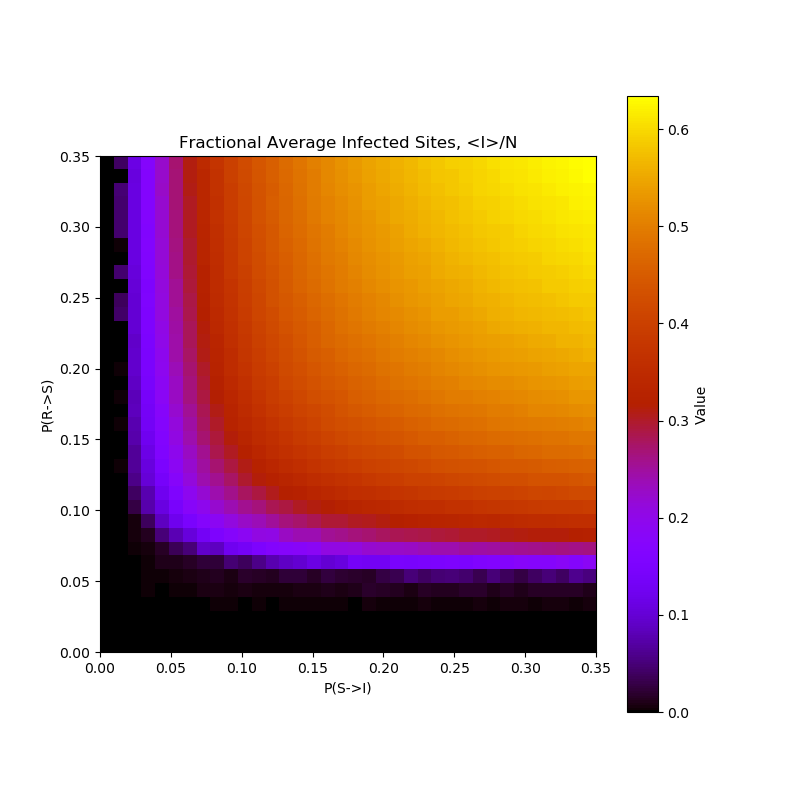
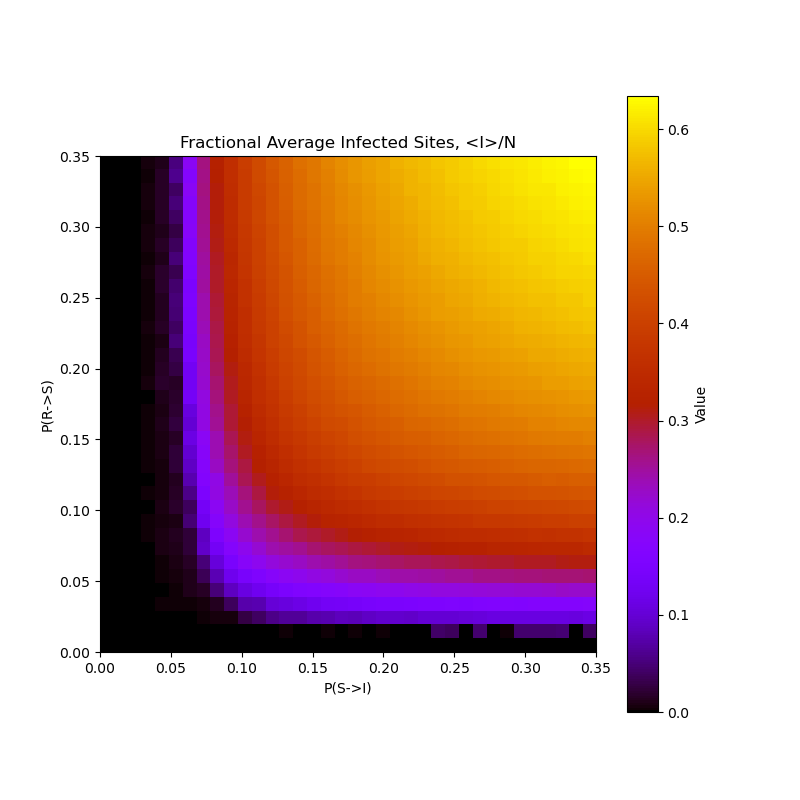
Further Gamma Distribution improvement

Changed region(s): [[0.125, 0.1562, 0.75, 0.8125], [0.0312, 0.4688, 0.0625, 0.5]]

diff --git a/Models/Trial_Models/SIRadvanced.py b/Models/Trial_Models/SIRadvanced.py
@@ -5,59 +5,86 @@
 import numpy as np
 import matplotlib.pyplot as plt
 from scipy.stats import gamma
-from scipy.integrate import simpson
 
 ########################################################################
 #################################MODEL##################################
 ########################################################################
 
 # Find the ppop that are moving from I to R at the current timestep using a gamma distribution
-def updateR(t,newI,max_prob_R,maxT):
-    # There is a maximum time a person can be infected for thus we must only search values as far back as t - maxT
-    # t - maxT + 1 at t = 0 effectively runs searchT from -maxT -> 0
-    searchT = np.arange(t - maxT + 1,t+1)
+def updateR(currT,newI,max_prob_R):
+
+    # Only need to consider 95% of the gamma distributions
+    maxT_Infected = int(round(gamma.ppf(0.95, max_prob_R)))
+
+    # There is a maximum time a person can be infected for, thus we must only search values as far back as 95% confidence
+    searchbackT = np.arange(currT - maxT_Infected + 1,currT + 1)
 
     # Creates an array to store the percentage of people that were infected on each day that are now recovered
-    prob_R = np.zeros(len(searchT))
-    i = 0
-    while i < len(prob_R):
-        if searchT[i] < 0:
-            prob_R[i] = 0
+    prob_R = np.zeros(maxT_Infected)
+    day = 0
+
+    while day < maxT_Infected:
+        if currT < maxT_Infected:
+            prob_R[day] = 0
         else:
             # Uses a gamma probability density function to find the percentage who were infected at searchT[i] who are now moving to recovered at time t
-            print(searchT[i])
-            print(searchT[i] - max_prob_R)
-            prob_R[i] = gamma(searchT[i] - max_prob_R).pdf(searchT)[searchT[i]] * newI[searchT[i]]
+            prob_R[day] = gamma(currT - max_prob_R).pdf(searchbackT)[day] * newI[day]
+            
             # Removes recovered proportion from the newI array
-            newI[searchT[i]] = newI[searchT[i]] - prob_R[i]
+            newI[day] = newI[day] - prob_R[day]
 
-        i += 1
+            # On last day of search all individuals still infected must be moved to recovered to conserve population
+            if day == maxT_Infected - 1:
+                newI[day] -= newI[currT-maxT_Infected]
+                newI[day] = min(1,max(newI[day],0))
+                newI[currT-maxT_Infected] = 0
+                prob_R[day] += newI[day]
+
+        day += 1
 
     # Integrate over the prob_R array to determine the total amount of the population who are recovering at time t
-    new_R = simpson(prob_R)
-    
-    return new_R 
+    recovered = np.sum(prob_R)
+
+    return recovered 
 
 # Find the ppop that are moving from R to S at the current timestep using a gamma distribution
-def updateS(t,newR,max_prob_S):
-    searchT = np.arange(0,t+1)
+def updateS(currT,newR,max_prob_S):
+    # Only need to consider 95% of the gamma distributions
+    maxT_Immunity = int(round(gamma.ppf(0.95, max_prob_S)))
+
+    # There is a maximum time a person can be immune for, thus we must only search values as far back as 95% confidence
+    searchbackT = np.arange(currT - maxT_Immunity + 1,currT + 1)
 
     # Creates an array to store the percentage of people that were resistant on each day that are now susceptible again
-    prob_S = np.zeros(len(searchT))
+    prob_S = np.zeros(maxT_Immunity)
+    day = 0
 
-    for i in range(len(prob_S)):
-        # Uses a Gamma probability density function to find the percentage who were resistant at searchT[i] who are now moving to susceptible at time t
-        prob_S[i] = gamma(searchT[i] - max_prob_S).pdf(searchT)[searchT[i]] * newR[searchT[i]]
-        # Removes susceptible proportion from the newR array
-        newR[searchT[i]] = newR[searchT[i]] - prob_S[i]
+    while day < maxT_Immunity:
+        if currT < maxT_Immunity:
+            prob_S[day] = 0
+        else:
+            # Uses a Gamma probability density function to find the percentage who were resistant at searchT[i] who are now moving to susceptible at time t
+            prob_S[day] = gamma(currT - max_prob_S).pdf(searchbackT)[day] * newR[day]
+
+            # Removes newly susceptible proportion from the newR array
+            newR[day] = newR[day] - prob_S[day]
+            
+            # On last day of search all individuals still with immunity must be moved to susceptible to conserve population
+            if day == maxT_Immunity - 1:
+                newR[day] -= newR[currT-maxT_Immunity]
+                newR[day] = min(1,max(newR[day],0))
+                newR[currT-maxT_Immunity] = 0
+                prob_S[day] += newR[day]
+
+        day += 1
     
     # Integrate over the prob_S array to determine the total amount of the population who are losing immunity at time t
-    new_S = simpson(prob_S)
+    susceptible = np.sum(prob_S)
 
-    return new_S 
+    return susceptible 
 
 # Runs the SIR model simulation
-def runModel(i_0,iters,max_prob_R,max_prob_S,maxT):
+def runModel(i_0,iters,max_prob_R,max_prob_S,R0):
     # Initialise arrays to store the total population percentage present in that compartment at each timestep
     S = np.zeros(iters)
     I = np.zeros(iters)
@@ -75,23 +102,27 @@ def runModel(i_0,iters,max_prob_R,max_prob_S,maxT):
     newI[0] = I[0]
 
     # Defines the infection rate
-    beta = 0.218
+    beta = R0 / max_prob_R
 
     # Main loop to update values for each timestep
     for t in range(iters - 1):
-        print("Day: " + str(t + 1))
         # Calculates the newly infected and recovered proportions at time t
         newI[t] = beta * S[t] * I[t]
-        print(newI)
-        newR[t] = updateR(t,newI,max_prob_R,maxT)
-        print(newR)
+        newR[t] = updateR(t,newI,max_prob_R)
         newS[t] = updateS(t,newR,max_prob_S)
-        print(newS)
 
         # Uses the new values to update the main compartment arrays at the next timestep
-        S[t+1] = S[t] + newS[t] - newI[t] 
-        I[t+1] = I[t] + newI[t] - newR[t]
-        R[t+1] = R[t] + newR[t] - newS[t]
+        ds = newS[t] - newI[t]
+        di = newI[t] - newR[t]
+        dr = newR[t] - newS[t]
+
+        #print(ds)
+        #print(di)
+        #print(dr)
+
+        S[t+1] = S[t] + ds
+        I[t+1] = I[t] + di
+        R[t+1] = R[t] + dr
 
     return S, I, R
 
@@ -101,7 +132,7 @@ def runModel(i_0,iters,max_prob_R,max_prob_S,maxT):
 
 # Plots the Compartments values in percentage of the total population against time in days
 def plot_sir_model(S, I, R, iters):
-    plt.figure(figsize=(10, 6))
+    plt.figure(figsize=(12, 6))
     plt.plot(range(iters), 100*S, label='Susceptible')
     plt.plot(range(iters), 100*I, label='Infected')
     plt.plot(range(iters), 100*R, label='Resistant')
@@ -120,12 +151,12 @@ if __name__ == "__main__":
     # Input initialisation parameters: i_0 - initial % of population infected
     i_0 = float(input("Initial Percentage of population infected [0,100]: ")) / 100
     iters = int(input("Number of Timesteps: ")) + 1
+    R0 = float(input("Basic Reproduction Number, R_0: "))
     max_prob_R = int(input("How many days after initial infection do most people recover? ")) + 1
-    maxT = int(input("Maximum time someone can be infected for? "))
     max_prob_S = int(input("How many days after recovery do most people lose their immunity? ")) + 1
-
+    
     # Run SIR model
-    S, I, R = runModel(i_0,iters,max_prob_R,max_prob_S,maxT)
+    S, I, R = runModel(i_0,iters,max_prob_R,max_prob_S,R0)
 
     # Check population is conserved to an acceptible tolerance
     if (S[-1]+I[-1]+R[-1]).round(6) == 1:

diff --git a/Models/Trial_Models/gammaSIRS.py b/Models/Trial_Models/gammaSIRS.py
@@ -1,0 +1,45 @@
+import numpy as np
+import matplotlib.pyplot as plt
+from scipy.stats import gamma
+
+# Define parameters
+population = 10000   # population
+beta = 0.1          # transmission rate
+gamma_shape_R = 7   # shape parameter of gamma distribution for recovery rate
+gamma_shape_S = 80  # shape parameter of gamma distribution for immunity rate
+
+# Define initial conditions
+I0 = 1
+R0 = 0
+S0 = population - I0
+
+# Time vector
+t = np.arange(0, 365)
+
+# Define SIRS model equations
+def SIRS(y, t, beta, gamma_shape_R, gamma_shape_S):
+    S, I, R = y
+    dSdt = gamma.pdf(t, gamma_shape_S,loc=0) * R - beta * S * I
+    dIdt = beta * S * I - gamma.pdf(t, gamma_shape_R,loc=0) * I
+    dRdt = gamma.pdf(t, gamma_shape_R,loc=0) * I - gamma.pdf(t, gamma_shape_S,loc=0) * R
+    
+    return dSdt, dIdt, dRdt
+
+
+# Solve the SIRS equations
+from scipy.integrate import odeint
+y0 = S0, I0, R0
+args = (beta, gamma_shape_R, gamma_shape_S)
+solution = odeint(SIRS, y0, t, args=args)
+
+
+# Plot the results
+plt.figure(figsize=(15,5))
+plt.plot(t, 100 * solution[:,0]/population, label='Susceptible')
+plt.plot(t, 100 * solution[:,1]/population, label='Infected')
+plt.plot(t, 100 * solution[:,2]/population, label='Resistant')
+plt.xlabel('Time (Days)')
+plt.ylabel('% of Population')
+plt.title('SIRS Model (with Gamma)')
+plt.legend()
+plt.show()

diff --git a/Models/SpatialSIRS.py b/Models/SpatialSIRS.py
@@ -297,22 +297,22 @@ def mainI():
 # Runs the simulation for different values of p1 to find the variance in infection
 def mainV():
     # Initialise 50x50 system, Run the simulation for 10_000 sweeps wait 100 until equilibrium is reached then take a variance measurement at each subsequent sweep
-    N = 50
+    N = 100
     sweeps = 5_000
     skip = 100
     
     # Resolution determines the incremental factor between subsequent parameters, increment over p1 with p2 = p3 = 0.5
-    resolution = 0.05
+    resolution = 0.01
     p1s = np.arange(0,1+resolution,resolution)
-    p2 = 0.5
-    p3 = 0.5
+    p2 = 0.1
+    p3 = 0.02
 
     # Iterates over each value of probability p1 and appends the infection variance to the data file
     for p1 in p1s:
         # Run simulation
         I_mean,I_var,err_var = RunSimI(N,sweeps,skip,p1,p2,p3,'V')
 
-        f1 = open("Models/Data_Files/Variance_Data.txt", 'a')
+        f1 = open("Models/Data_Files/Variance_Data_updated.txt", 'a')
         f1.write("{0:4.3f}, {1}, {2}\n".format(p1,I_var,err_var))
         f1.close()
 

diff --git a/Models/Trial_Models/GammaTest.py b/Models/Trial_Models/GammaTest.py
@@ -6,17 +6,17 @@ from scipy.integrate import simpson
 
 # Gamma Dist(a,x) = x**(a-1) * exp(-x)
 # a - 1 is the position of the peak of the function
-t = np.arange(30,100,1)
+maxprob = 70
+currT = 365
+maxT = gamma.ppf(0.95, currT - maxprob + 1)
+print(maxT)
+searchbackT = np.arange(currT - maxT + 1,currT + 1)
 
-a = float(input("max: "))
-pgamma = gamma(a).pdf(t)
-pnorm = norm.pdf(t, loc= a, scale=0.15*a)
+pgamma = gamma(currT - maxprob + 1).pdf(searchbackT)
 
-print(pgamma)
 fig = plt.figure()
 
-plt.plot(t,pgamma,label="Gamma: a = " + str(a))
-plt.plot(t,pnorm,label="Gaussian: a = " + str(a))
+plt.plot(searchbackT,pgamma,label="Gamma: a = " + str(maxprob))
 plt.xlabel("Time (Days)")
 plt.ylabel("Probability of Transition, P(t)")
 plt.title("Probability Distributions")

diff --git a/Models/PlotSpatialSIRS.py b/Models/PlotSpatialSIRS.py
@@ -14,7 +14,7 @@ def ContourPlot():
     z = data[:, 2]
 
     # Create an array of indices to sort the data based on x and y values
-    sorted_indices = np.lexsort((y, x))
+    sorted_indices = np.lexsort((x, y))
 
     # Sort the z values based on the sorted indices
     sorted_z = z[sorted_indices]
@@ -43,7 +43,7 @@ def ContourPlot():
 
 # Plots the Variance in the Average Infected fraction against p1
 def VariancePlot():
-    filename = 'Models/Data_Files/Variance_Data_New.txt'
+    filename = 'Models/Data_Files/Variance_Data_updated.txt'
     f = open(filename, 'r')
     lines = f.readlines() 
     
